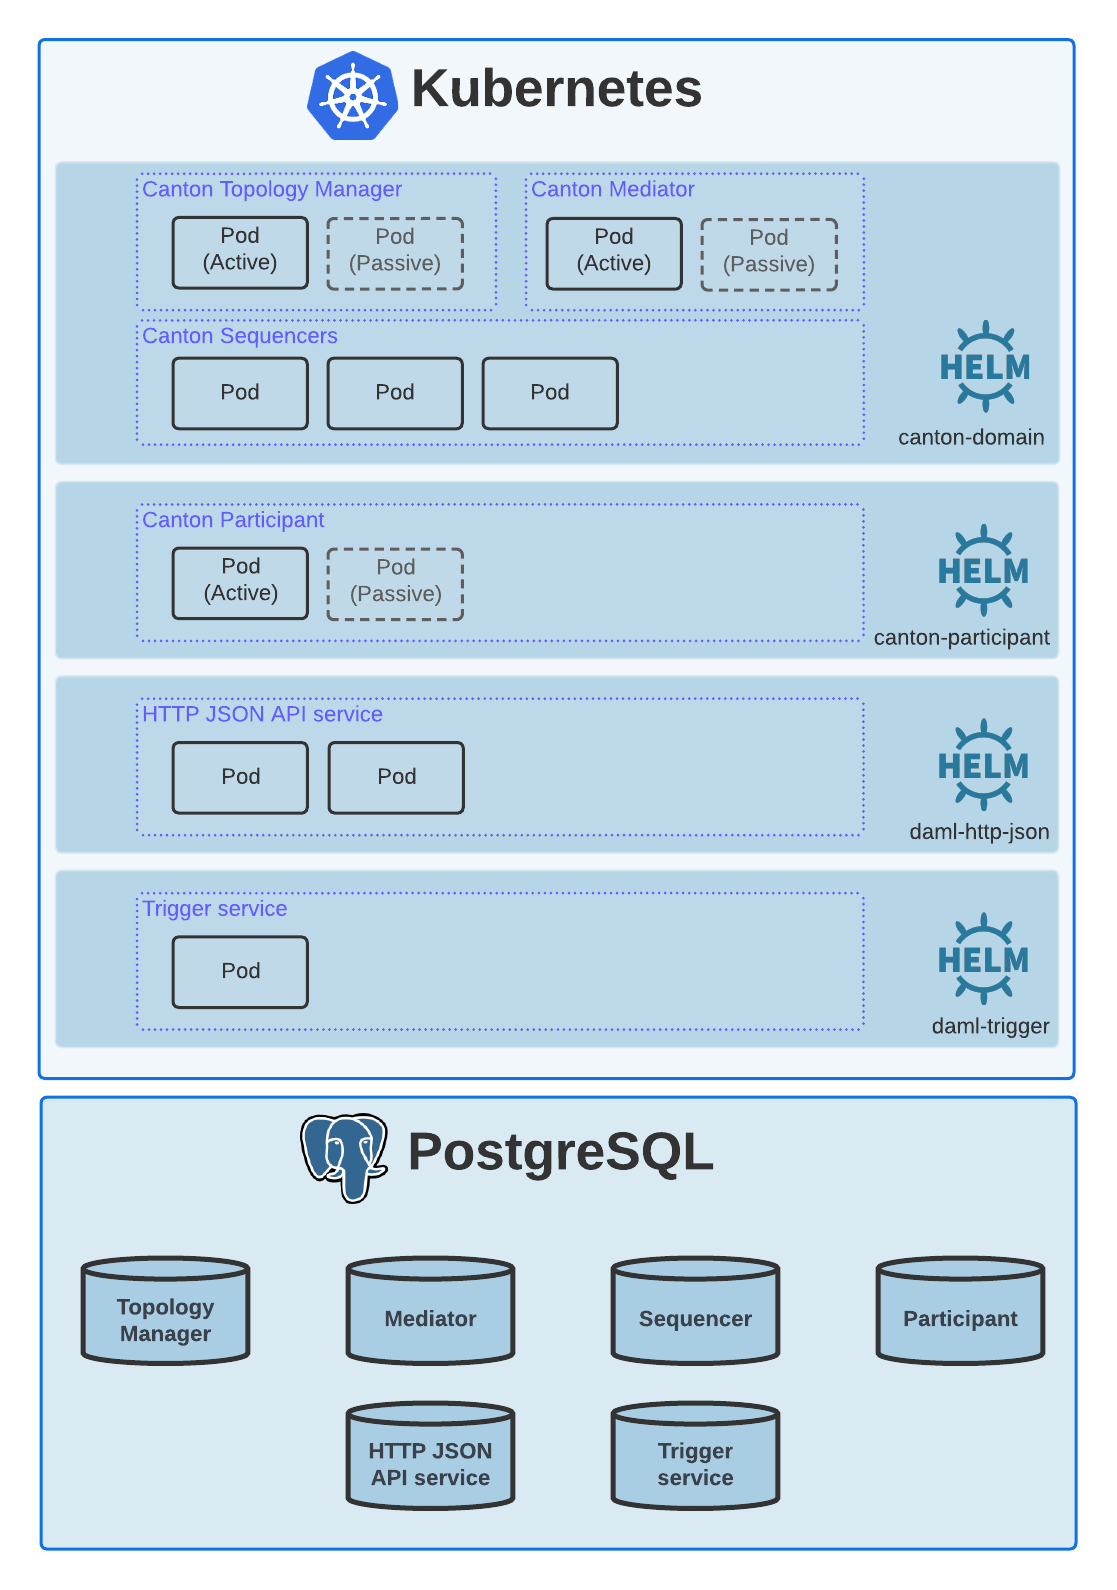
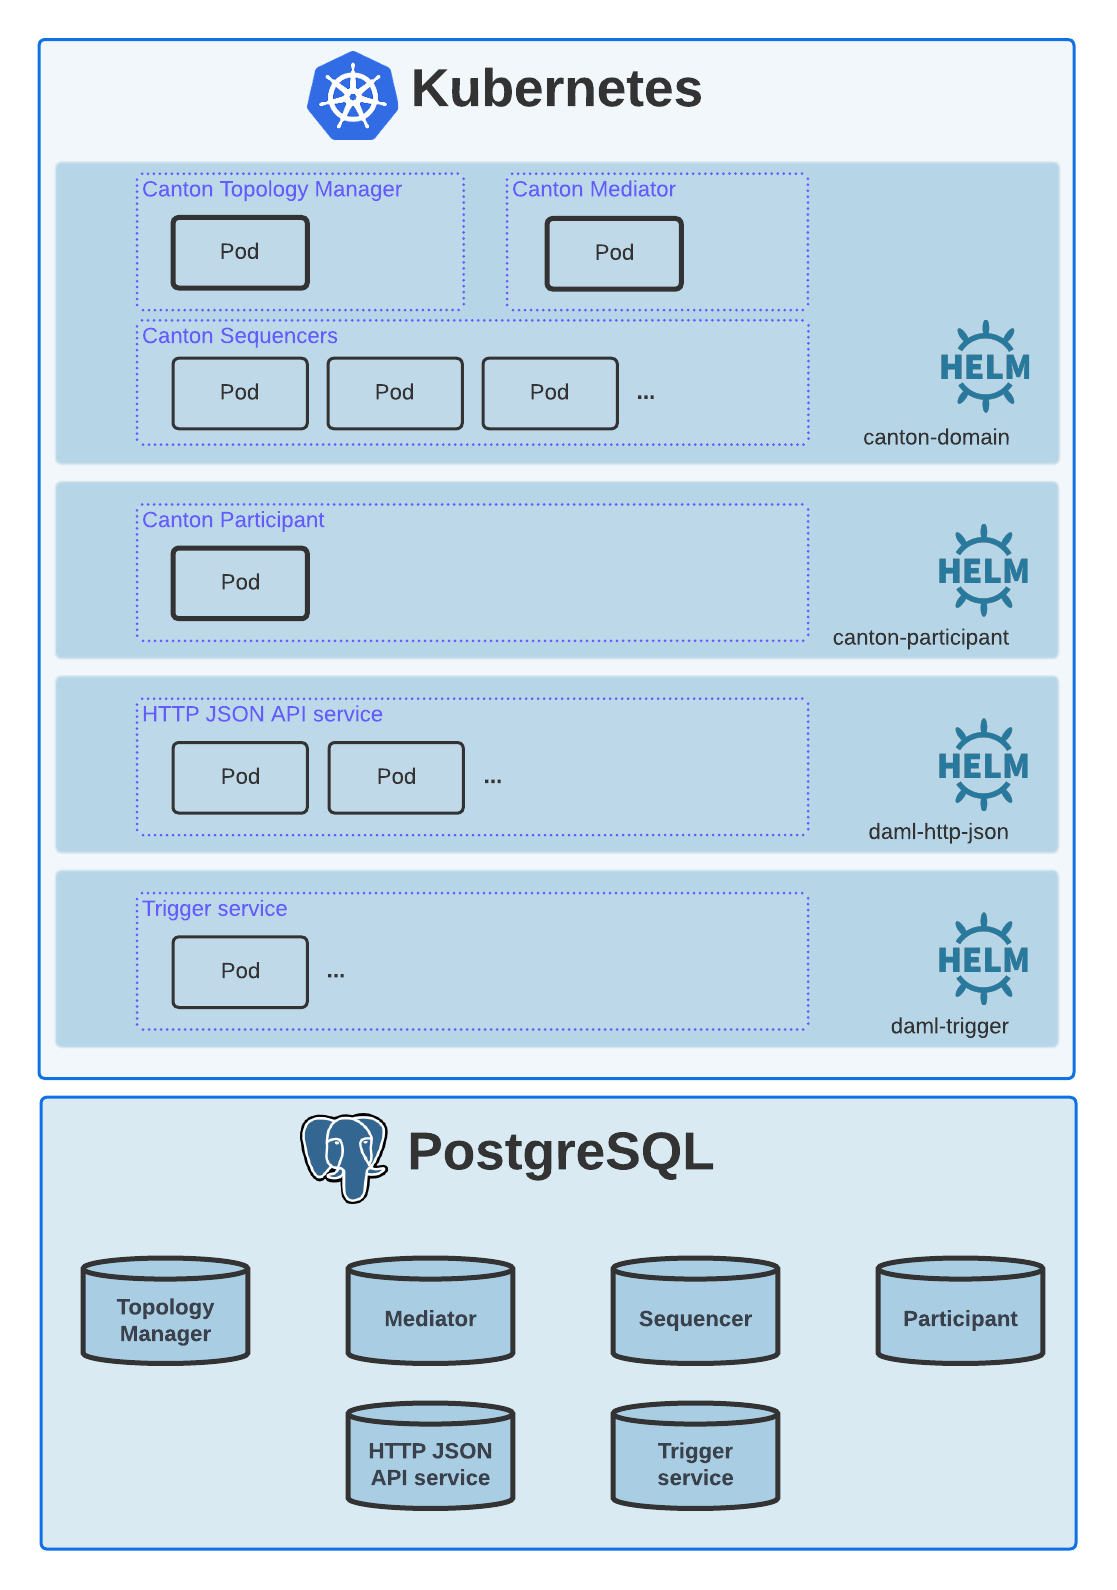
Updated Kubernetes target deployment diagram to exclude 'passive' nodes [PLEN-548] (#563)

diff --git a/docs/2.8.0/docs/kubernetes/01-introduction/overview.rst b/docs/2.8.0/docs/kubernetes/01-introduction/overview.rst
@@ -50,6 +50,7 @@ For an overview of the Daml Enterprise architecture, see `Introduction to Canton
 
 * `HTTP JSON API service <https://docs.daml.com/json-api/index.html>`_\: This service exposes a JSON API for interacting with a *participant*\ , allowing application writers to use a simpler version of the `Ledger API <https://docs.daml.com/app-dev/ledger-api.html>`_. You can achieve high availability through active-active clustering.
 
+To learn more about how high availability is achieved for Daml Enterprise on Kubernetes, see section :doc:`High Availability On Kubernetes <../06-advanced-topics/high-availability>`.
 You can find all of the Helm charts referenced by the target deployment architecture in the `Daml Enterprise Helm charts repository <https://github.com/digital-asset/daml-helm-charts/tree/main>`_.
 
 Prerequisites

diff --git a/docs/3.0.0/docs/kubernetes/01-introduction/overview.rst b/docs/3.0.0/docs/kubernetes/01-introduction/overview.rst
@@ -50,6 +50,7 @@ For an overview of the Daml Enterprise architecture, see `Introduction to Canton
 
 * `HTTP JSON API service <https://docs.daml.com/json-api/index.html>`_\: This service exposes a JSON API for interacting with a *participant*\ , allowing application writers to use a simpler version of the `Ledger API <https://docs.daml.com/app-dev/ledger-api.html>`_. You can achieve high availability through active-active clustering.
 
+To learn more about how high availability is achieved for Daml Enterprise on Kubernetes, see section :doc:`High Availability On Kubernetes <../06-advanced-topics/high-availability>`.
 You can find all of the Helm charts referenced by the target deployment architecture in the `Daml Enterprise Helm charts repository <https://github.com/digital-asset/daml-helm-charts/tree/main>`_.
 
 Prerequisites
